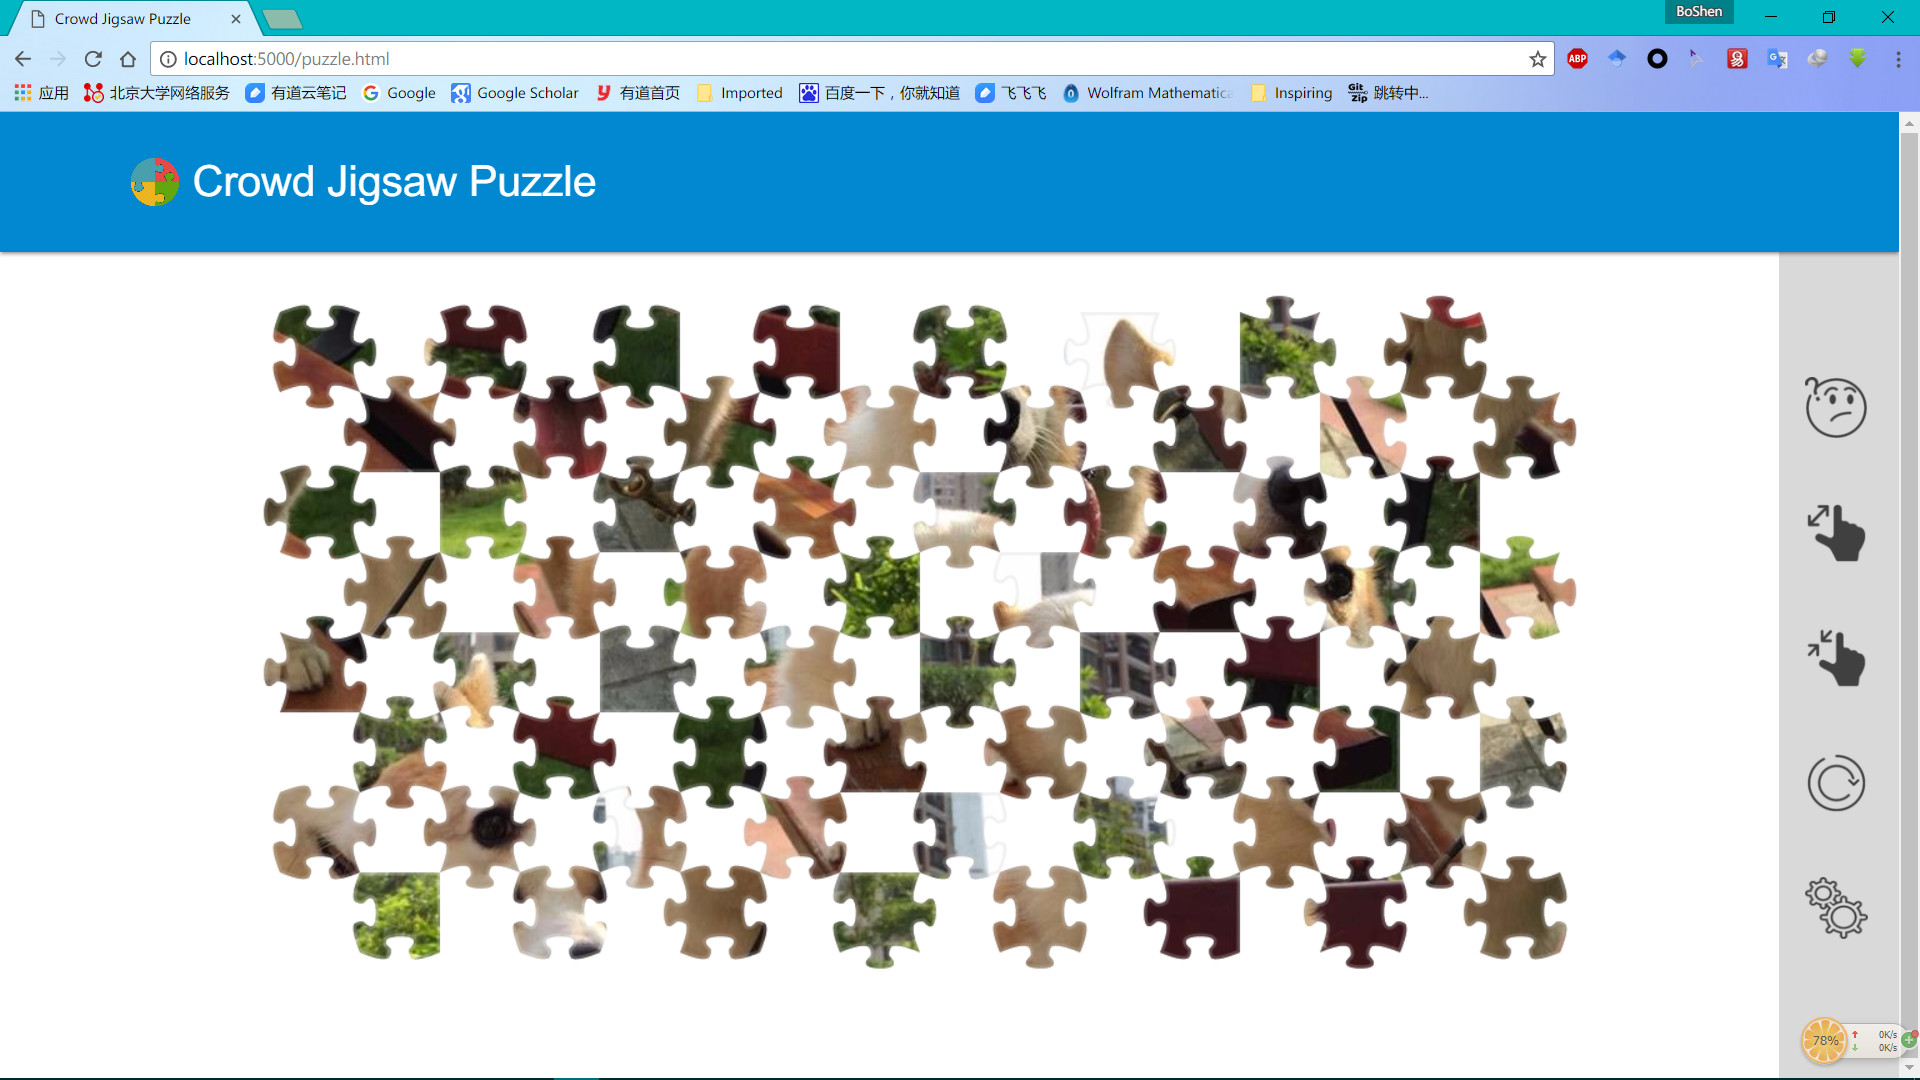
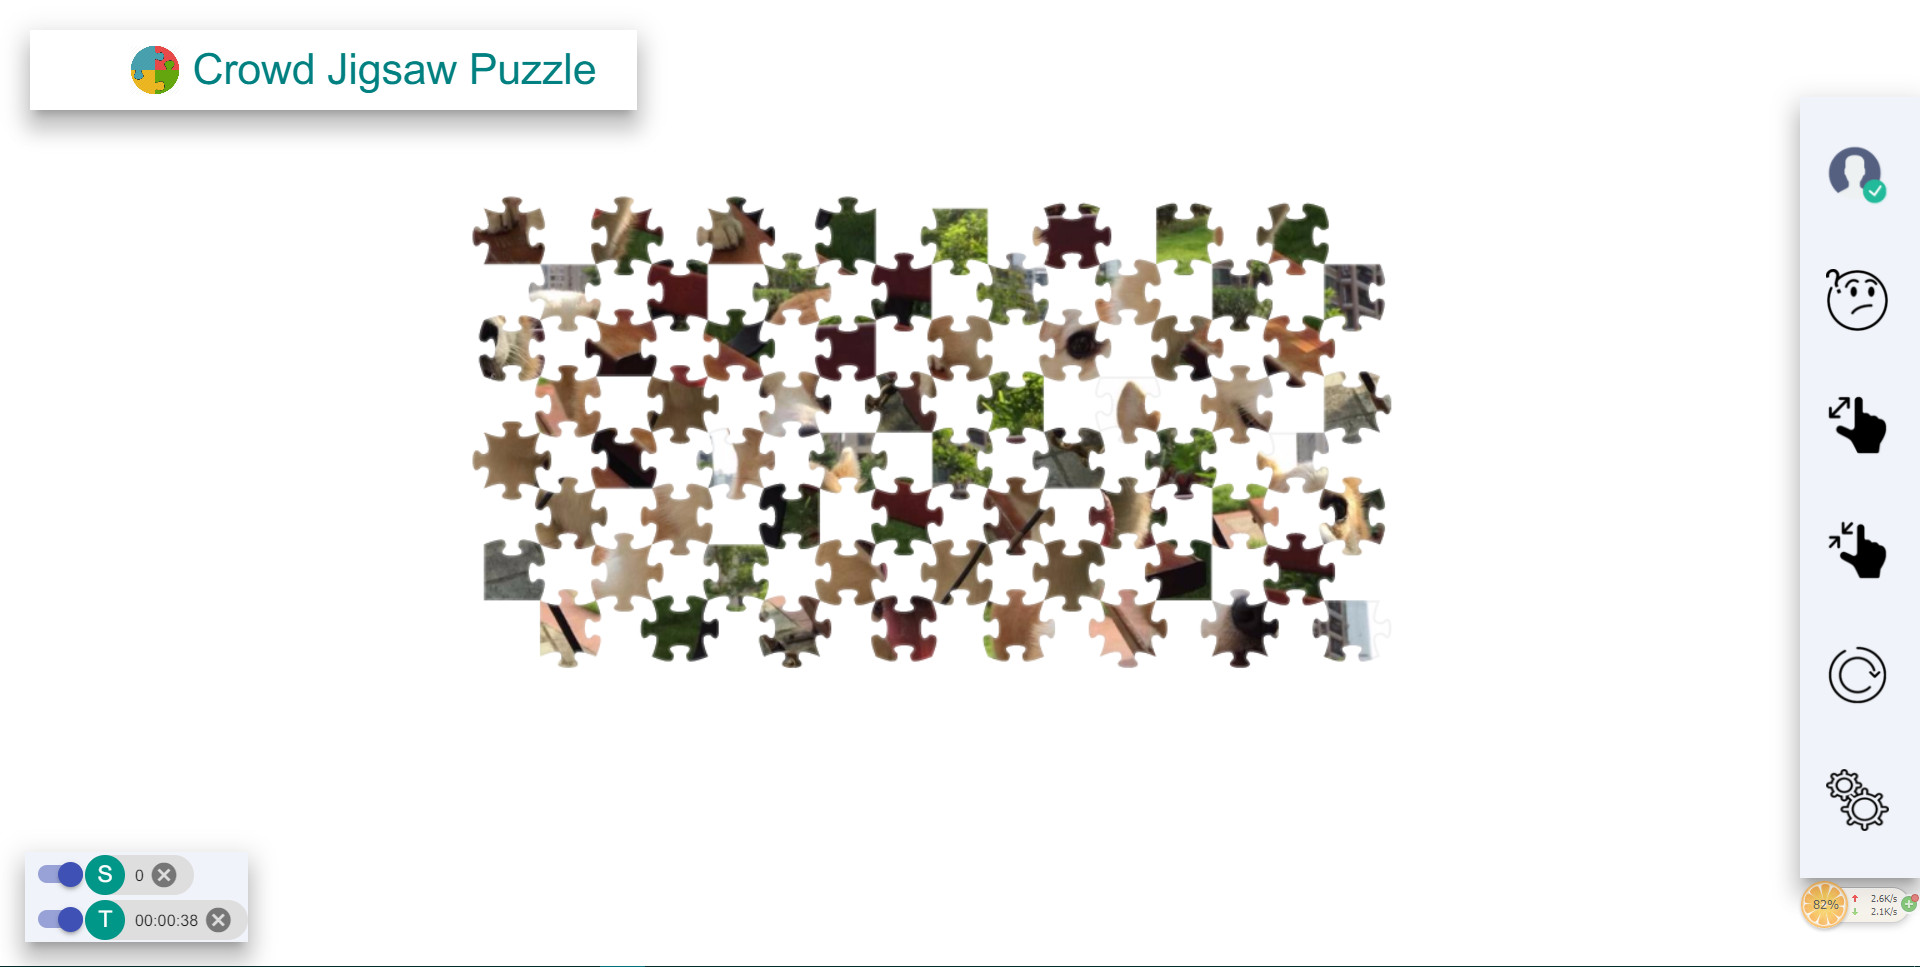
[Dev v0.6.4] Prettify the puzzle UI; Update README.md image source.

diff --git a/puzzle.html b/puzzle.html
@@ -15,21 +15,24 @@
 </head>
 
 <body>
-    <div class="demo-layout mdl-layout mdl-js-layout mdl-layout--fixed-header">
+    <div class="header mdl-layout mdl-js-layout mdl-layout--fixed-header">
         <!-- Header section containing title -->
-        <header class="mdl-layout__header mdl-color-text--white mdl-color--light-blue-700">
+        <header class="mdl-layout__header mdl-layout__header--transparent">
             <div class="mdl-cell mdl-cell--12-col mdl-cell--12-col-tablet mdl-grid">
-                <div class="mdl-layout__header-row mdl-cell mdl-cell--12-col mdl-cell--12-col-tablet mdl-cell--8-col-desktop">
+                <div class="mdl-layout__header-row mdl-shadow--16dp mdl-cell mdl-cell--12-col mdl-cell--12-col-tablet mdl-cell--4-col-desktop">
                     <h3>Crowd Jigsaw Puzzle</h3>
                 </div>
             </div>
-        </header>
-        <canvas id="canvas" class="canvas" resize></canvas>
+        </header>     
     </div>
-    <div class="charms">
-        <img width="50" height="50" src="images/zoomIn.png" class="zoomIn" />
-        <img width="50" height="50" src="images/zoomOut.png" class="zoomOut" />
+    <div class="puzzle">
+    <canvas id="canvas" class="canvas" resize></canvas>
+    </div>
+    <div class="charms mdl-shadow--16dp">
         <img width="50" height="50" src="images/help.png" class="help" />
+        <img width="50" height="50" src="images/user.png" class="user" />
+        <img width="50" height="50" src="images/zoomOut.png" class="zoomOut" />
+        <img width="50" height="50" src="images/zoomIn.png" class="zoomIn" />
         <img width="50" height="50" src="images/restart.png" class="restart" />
         <img width="50" height="50" src="images/settings.png" class="settings" />
     </div>
@@ -37,7 +40,7 @@
         <img width="512" height="512" id="puzzle-image" class="puzzle-image" style="display: none;" src="images/corgi.jpg" />
         <img width="128" height="128" id="empty" style="display: none;" src="images/empty.png" />
     </div>
-    <div class="info">
+    <div class="info mdl-shadow--16dp">
         <label class="mdl-switch mdl-js-switch mdl-js-ripple-effect" for="show_steps">
             <span class="mdl-switch__label"></span>
             <input type="checkbox" id="show_steps" class="mdl-switch__input" checked onclick="showSteps()">

diff --git a/styles/puzzle.css b/styles/puzzle.css
@@ -9,9 +9,9 @@ h3 {
   background: url('../images/logo.png') no-repeat;
   background-size: 40px;
   padding-left: 50px;
-  color: white;
+  color: Teal;
+  /*border:1px dashed #000;*/
 }
-
 
 canvas
 {
@@ -31,7 +31,8 @@ canvas
 .zoomOut,
 .help,
 .restart,
-.settings
+.settings,
+.user
 {
     z-index: 100;
     position: absolute;
@@ -43,20 +44,29 @@ canvas
 {
     overflow: hidden;   
     position: absolute;
-    background: #ccc;
-    opacity: 0.75;
+    background: #f0f3f9;
+    top: 10%;
+    /*opacity: 0.75;*/
     right: 0%;
-    height: 100%;
-    width: 96px;    
+    height: 625px;
+    width: 96px;  
+    /*display: none;  */
 }
-
+.help:hover,
+.user.hover,
 .zoomIn:hover,
 .zoomOut:hover,
-.help:hover,
 .restart.hover,
 .settings.hover
 {
     opacity: 1.0;
+}
+
+.user
+{
+    right: 0%;
+    top: 50%;
+    margin: -275px 25px 0 0;
 }
 
 .help
@@ -98,11 +108,14 @@ canvas
 	position: absolute;
 	left: 20px;
 	bottom: 20px;
+    /*border:1px dashed #000;*/
+    display: inline;
+    background-color:#f0f3f9;
 }
 
 
 .mdl-switch{
     display:inline;
     margin-left: 10px;
-    margin-right: 10px;    
+    margin-right: 10px;   
 }

diff --git a/scripts/jigsaw.js b/scripts/jigsaw.js
@@ -1,4 +1,31 @@
 
+// auto hide and show some elements
+$('.charms').mouseleave(function () {
+    $('.charms').animate({
+        // width : "hide",  
+        // paddingLeft : "hide",  
+        // paddingRight : "hide",  
+        // marginLeft : "hide",  
+        // marginRight : "hide"  
+        opacity: 0
+    });
+});
+$('.charms').mouseover(function () {
+    $('.charms').animate({
+        // width : "show",  
+        // paddingLeft : "show",  
+        // paddingRight : "show",  
+        // marginLeft : "show",  
+        // marginRight : "show" 
+        opacity: 0.75
+    });
+});
+
+// $('.header').mouseleave(function(){
+//     $('.header').slideUp('slow');
+// });
+
+
 Array.prototype.remove = function (start, end) {
     this.splice(start, end);
     return this;
@@ -74,6 +101,7 @@ function onMouseDown(event) {
     // }
 
 }
+
 
 function onMouseUp(event) {
     puzzle.releaseTile();

diff --git a/README.md b/README.md
@@ -34,11 +34,11 @@ _Powered By [@Symbolk](http://www.symbolk.com)_
 
 2, Register an account with Email address and passwword; If you want to manage your account, you must verify your email.
 
-![SignUp](http://i1.buimg.com/1949/c2309123c2f7e736.jpg)
+![SignIn](https://github.com/Symbolk/CrowdJigsawPuzzle/blob/master/screenshots/sigin.jpg)
 
 3, Click "Start Game" to play with a puzzle.
 
-![Puzzle](http://i1.buimg.com/1949/9e6348d9a3f13c23.jpg)
+![Puzzle](https://github.com/Symbolk/CrowdJigsawPuzzle/blob/master/screenshots/puzzle.jpg)
 
 
 ## Run it locally!
@@ -56,11 +56,11 @@ firebase login
 ```
 3, Create a web app in your Firebase console, and enable Email/Password login:
 
-![Enable](http://i1.buimg.com/1949/4164a23901795423.png) 
+![Enable](https://github.com/Symbolk/CrowdJigsawPuzzle/blob/master/screenshots/enable.png) 
 
 4, Config your app : switch to Console/Overview, copy the code inside <script></script> to scripts/config.js(remember to rename config_template.js):
 
-![Config](http://i1.buimg.com/1949/9086a71399011aa7.png)
+![Config](https://github.com/Symbolk/CrowdJigsawPuzzle/blob/master/screenshots/config.png)
 
 5, Link the app to Firebase:
 ```sh
